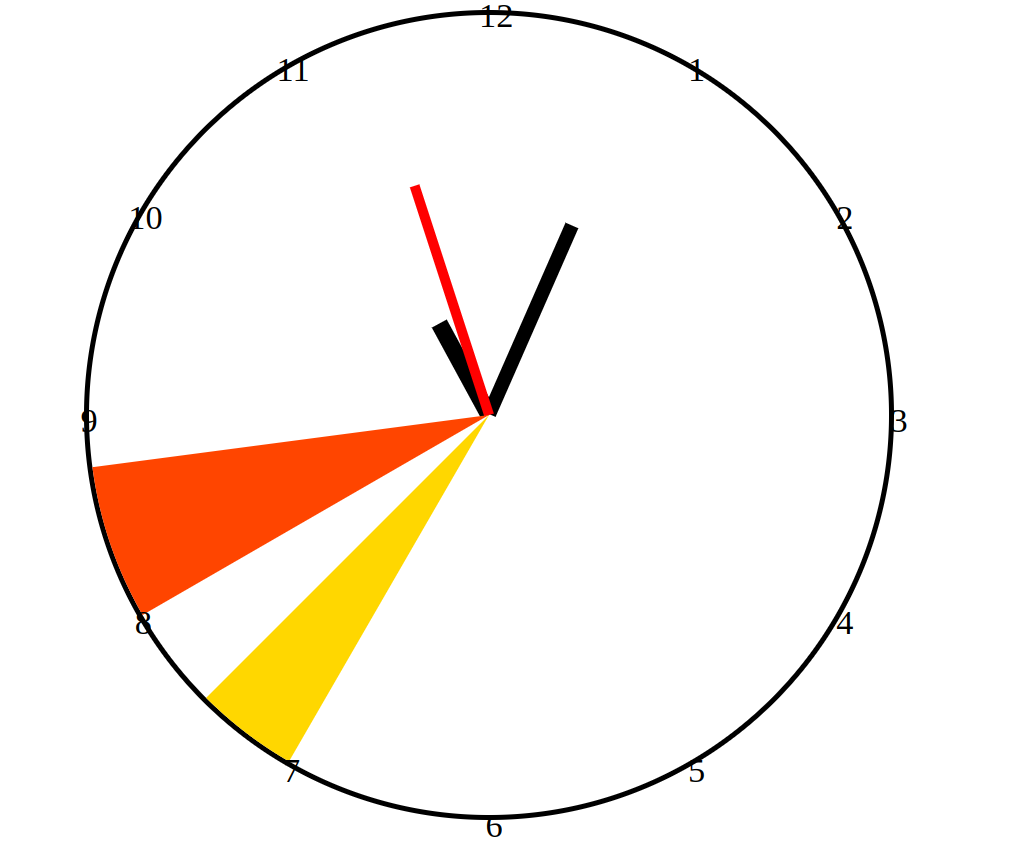
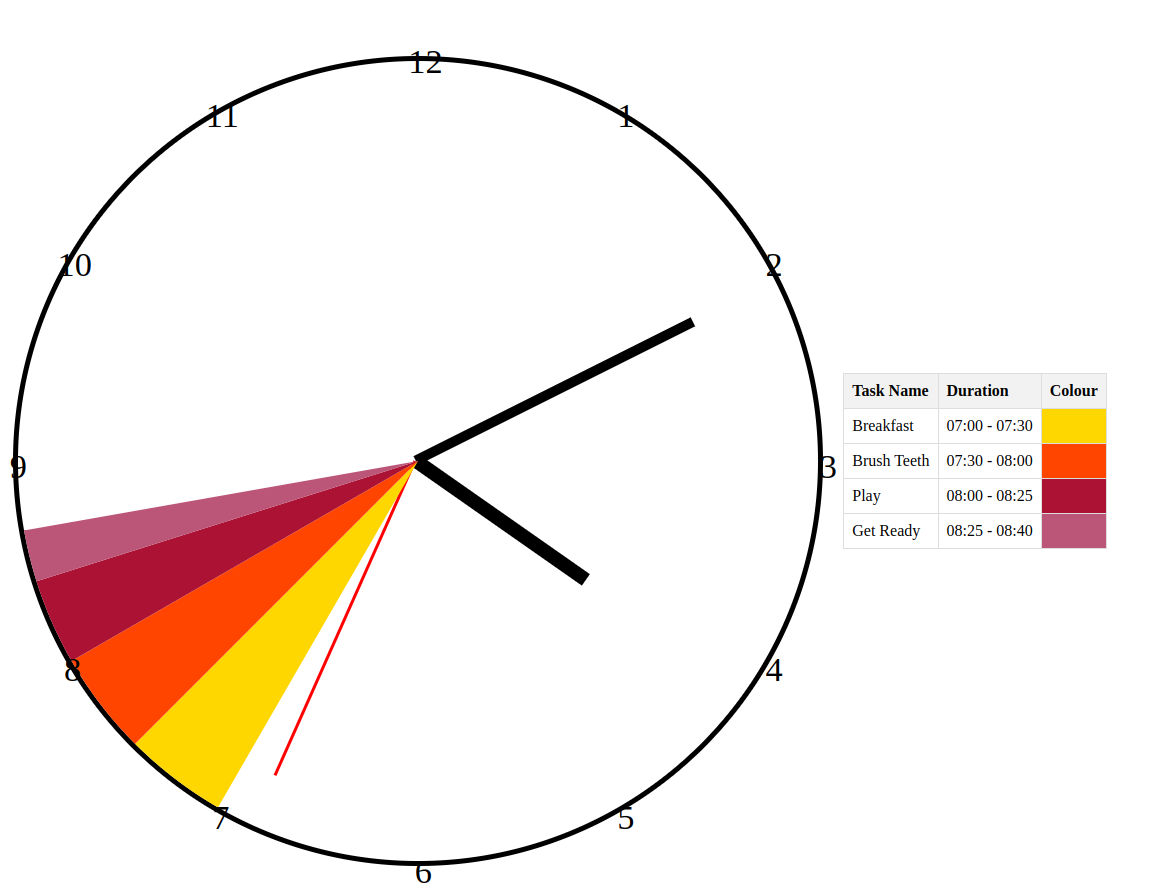
Display table next to clock with tasks/colours/durations #1

diff --git a/static/style.css b/static/style.css
@@ -30,7 +30,7 @@ body {
 
 .hand {
     position: absolute;
-    bottom: 50%; /* Pivot point at the center of the clock */
+    bottom: 50%;
     left: 50%;
     transform-origin: 50% 100%;
     background-color: black;
@@ -38,58 +38,74 @@ body {
 
 .number {
     position: absolute;
-    font-size: 2vw; /* Responsive font size */
-    width: 30px; /* Fixed width for consistency */
-    height: 30px; /* Fixed height for consistency */
+    font-size: 2vw;
+    width: 30px;
+    height: 30px;
     text-align: center;
-    line-height: 30px; /* For vertical alignment */
+    line-height: 30px;
     transform-origin: center;
     z-index: 10;
 }
 
 
 #hour-hand {
-    width: 1vw; /* Responsive width */
-    height: 6vw; /* Responsive height, adjust based on clock size */
-    bottom: 50%; /* Centering the hand */
+    width: 0.8vw;
+    height: 12vw;
+    bottom: 50%;
     left: calc(50% - 0.5vw); /* Centering based on width */
     background-color: black;
     transform-origin: 50% 100%;
+    z-index: 9;
+
 }
 
 #minute-hand {
-    width: 0.8vw; /* Slightly thinner than the hour hand */
-    height: 12vw; /* Longer than the hour hand */
+    width: 0.6vw;
+    height: 18vw;
     bottom: 50%;
     left: calc(50% - 0.4vw); /* Centering based on width */
     background-color: black;
     transform-origin: 50% 100%;
+    z-index: 9;
+
 }
 
 #second-hand {
-    width: 0.6vw; /* The thinnest of all hands */
-    height: 14vw; /* The longest to reach near the border */
+    width: 0.2vw;
+    height: 20vw;
     bottom: 50%;
     left: calc(50% - 0.3vw); /* Centering based on width */
-    background-color: red; /* Often colored differently for visibility */
+    background-color: red;
     transform-origin: 50% 100%;
 }
-
 
 .task-bit {
     position: absolute;
     border: 2px solid red;
     background-color: red;
-    /* Additional styling will be added later for positioning */
 }
 
-.task-text {
-    color: white; /* Choose a color that stands out against your task colors */
-    font-size: 1vw; /* Adjust size as needed for visibility */
-    text-align: center;
-    position: absolute;
-    width: 100%; /* Ensure it spans the width of the task bit */
-    top: 50%; /* Center vertically */
-    transform: translateY(-50%); /* Align text center within the task bit */
-    pointer-events: none; /* Prevents text from blocking click events on the task bit */
+.container {
+    display: flex;
+    align-items: center;
+    justify-content: center;
+}
+
+.task-table {
+    margin-left: 20px; /* Space between clock and table */
+}
+
+.task-table table {
+    border-collapse: collapse;
+    width: 100%;
+}
+
+.task-table th, .task-table td {
+    border: 1px solid #ddd;
+    padding: 8px;
+    text-align: left;
+}
+
+.task-table th {
+    background-color: #f2f2f2;
 }

diff --git a/templates/index.html b/templates/index.html
@@ -6,24 +6,40 @@
     <link rel="stylesheet" href="{{ url_for('static', filename='style.css') }}">
 </head>
 <body>
-    <div id="clock">
-        <div class="number">12</div>
-        <div class="number">1</div>
-        <div class="number">2</div>
-        <div class="number">3</div>
-        <div class="number">4</div>
-        <div class="number">5</div>
-        <div class="number">6</div>
-        <div class="number">7</div>
-        <div class="number">8</div>
-        <div class="number">9</div>
-        <div class="number">10</div>
-        <div class="number">11</div>
-        <div id="hour-hand" class="hand"></div>
-        <div id="minute-hand" class="hand"></div>
-        <div id="second-hand" class="hand"></div>
-        <svg id="clock-tasks" width="100%" height="100%" viewbox="0 0 100 100">
-        </svg>
+    <div class="container">
+        <div id="clock">
+            <div class="number">12</div>
+            <div class="number">1</div>
+            <div class="number">2</div>
+            <div class="number">3</div>
+            <div class="number">4</div>
+            <div class="number">5</div>
+            <div class="number">6</div>
+            <div class="number">7</div>
+            <div class="number">8</div>
+            <div class="number">9</div>
+            <div class="number">10</div>
+            <div class="number">11</div>
+            <div id="hour-hand" class="hand"></div>
+            <div id="minute-hand" class="hand"></div>
+            <div id="second-hand" class="hand"></div>
+            <svg id="clock-tasks" width="100%" height="100%" viewbox="0 0 100 100">
+            </svg>
+        </div>
+        <div class="task-table">
+            <table>
+                <thead>
+                    <tr>
+                        <th>Task Name</th>
+                        <th>Duration</th>
+                        <th>Colour</th>
+                    </tr>
+                </thead>
+                <tbody id="taskTableBody">
+                    <!-- Task rows will be inserted here -->
+                </tbody>
+            </table>
+        </div>       
     </div>
     <script src="{{ url_for('static', filename='script.js') }}"></script>
 </body>

diff --git a/static/script.js b/static/script.js
@@ -46,8 +46,9 @@ function timeToAngle(time) {
 
 let tasks = [
     { start: '07:00', end: '07:30', description: 'Breakfast', color: '#FFD700' },
-    { start: '08:00', end: '08:45', description: 'Study', color: '#FF4500' },
-    // ... other tasks
+    { start: '07:30', end: '08:00', description: 'Brush Teeth', color: '#FF4500' },
+    { start: '08:00', end: '08:25', description: 'Play', color: '#AB1234' },
+    { start: '08:25', end: '08:40', description: 'Get Ready', color: '#BC5678' },
 ];
 
 
@@ -61,7 +62,7 @@ function updateClockHands() {
     const minutes = now.getMinutes();
     const hours = now.getHours();
 
-    const secondDegrees = (seconds / 60) * 360; // Add 90 to offset the initial 90 degrees
+    const secondDegrees = (seconds / 60) * 360;
     const minuteDegrees = (minutes / 60) * 360 + (seconds/60) * 6;
     const hourDegrees = ((hours % 12) / 12 ) * 360 + (minutes/60) * 30;
 
@@ -90,6 +91,34 @@ function positionNumbers() {
         number.style.transform = `translate(-50%, -50%) rotate(${angle}deg) rotate(${-angle}deg)`;
     });
 }
+
+function populateTaskTable(tasks) {
+    const tableBody = document.getElementById('taskTableBody');
+    tableBody.innerHTML = ''; // Clear existing content
+
+    tasks.forEach(task => {
+        const row = document.createElement('tr');
+        
+        // Task Name
+        const nameCell = document.createElement('td');
+        nameCell.textContent = task.description;
+        row.appendChild(nameCell);
+
+        // Task Duration
+        const durationCell = document.createElement('td');
+        durationCell.textContent = `${task.start} - ${task.end}`;
+        row.appendChild(durationCell);
+
+        // Task Colour
+        const colourCell = document.createElement('td');
+        colourCell.style.backgroundColor = task.color;
+        row.appendChild(colourCell);
+
+        tableBody.appendChild(row);
+    });
+}
+
+populateTaskTable(tasks);
 
 // Initial positioning
 positionNumbers();
